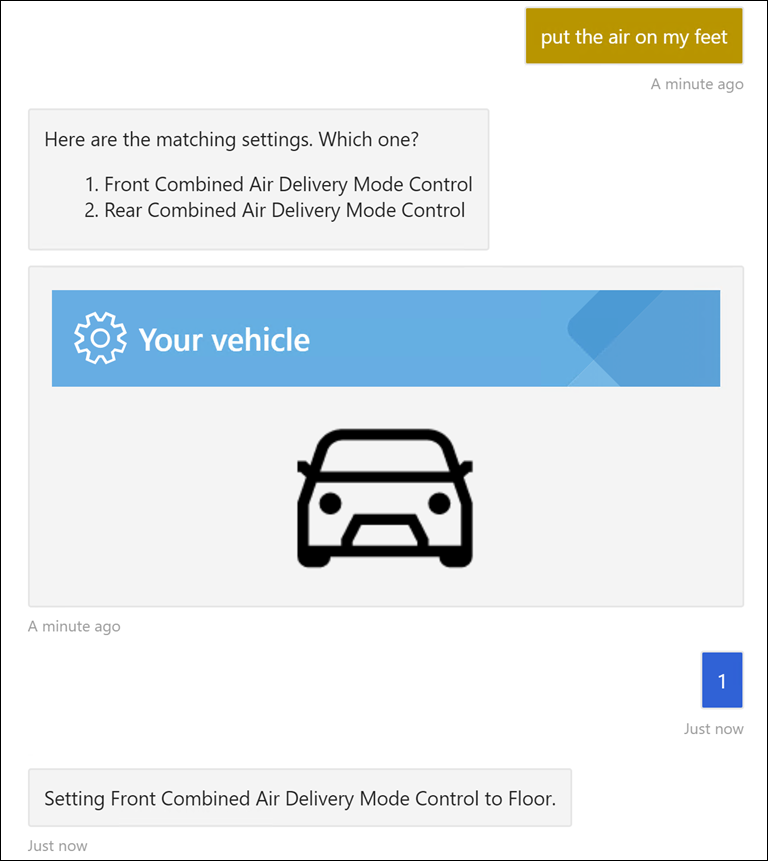
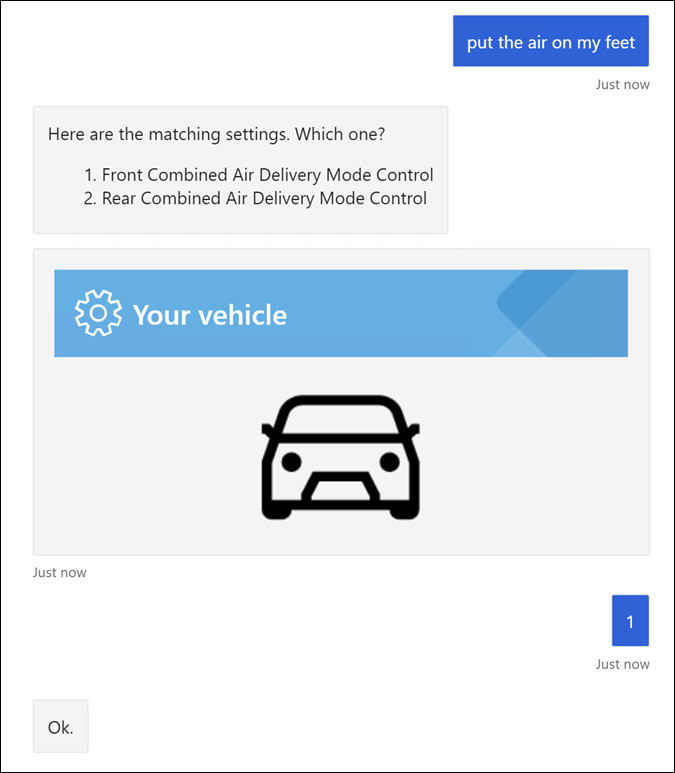
Updated bot responses and images

diff --git a/ai-exp1/README.md b/ai-exp1/README.md
@@ -2,7 +2,7 @@
 
 ## AI, Experience 1 - Quickly build comprehensive Bot solutions with the Virtual Assistant solution accelerator
 
-- [Data & AI Tech Immersion Workshop – Product Review Guide and Lab Instructions](#data--ai-tech-immersion-workshop-%e2%80%93-product-review-guide-and-lab-instructions)
+- [Data &amp; AI Tech Immersion Workshop – Product Review Guide and Lab Instructions](#data-amp-ai-tech-immersion-workshop-%e2%80%93-product-review-guide-and-lab-instructions)
   - [AI, Experience 1 - Quickly build comprehensive Bot solutions with the Virtual Assistant solution accelerator](#ai-experience-1---quickly-build-comprehensive-bot-solutions-with-the-virtual-assistant-solution-accelerator)
   - [Technology overview](#technology-overview)
   - [Scenario overview](#scenario-overview)
@@ -396,9 +396,7 @@ The result is that the bot must clarify the user's intent by prompting for more 
 
 ![The Live Chat shows the bot's prompt to choose which air control mode to use.](media/bot-framework-emulator-option.png 'Live Chat')
 
-1.  If you selected the `Front Combined Air Delivery Mode Control` option, you should see a response from the bot that says: `Setting Front Combined Air Delivery Mode Control to Floor`. The amazing thing that happened is that your original somewhat vague request to "put the air on my feet" ultimately resulted in the bot telling the vehicle to turn on the air in the front of the car to the floor setting, knowing that your feet are most likely located on the floor :)
-
-    ![The bot's response to your selected action.](media/bot-framework-emulator-air-feet.png 'Live Chat')
+1.  If you input a valid response, the bot will simply reply with `Ok.` to confirm the action.
 
 2.  Now type a command that the bot would not understand, such as "make me a coffee". The bot will respond with, "Sorry, I don't know what setting you're talking about."
 
